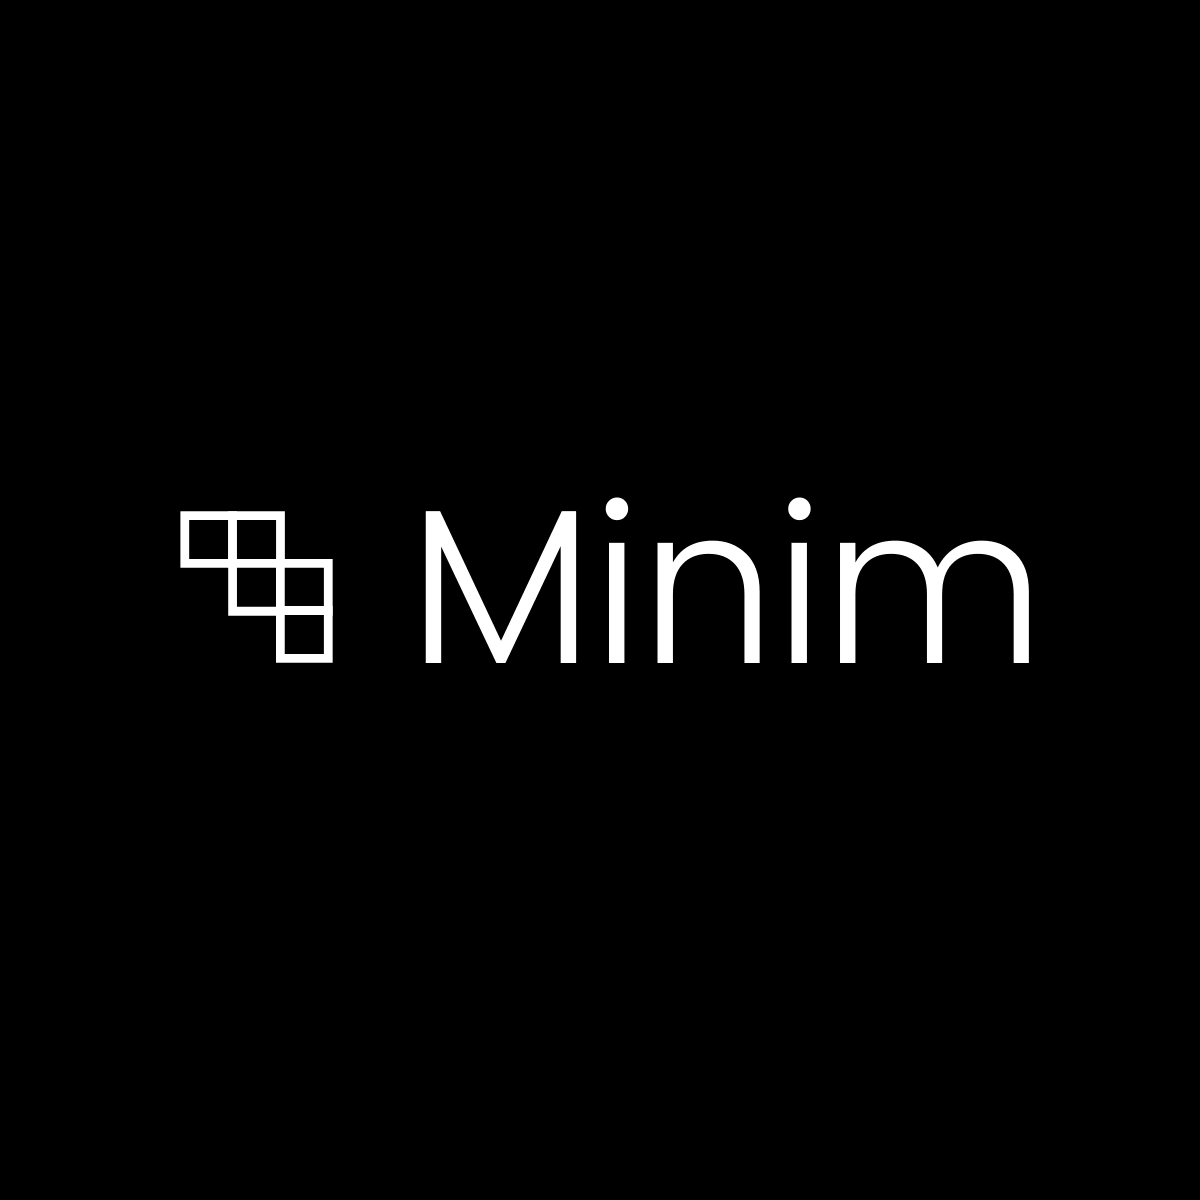
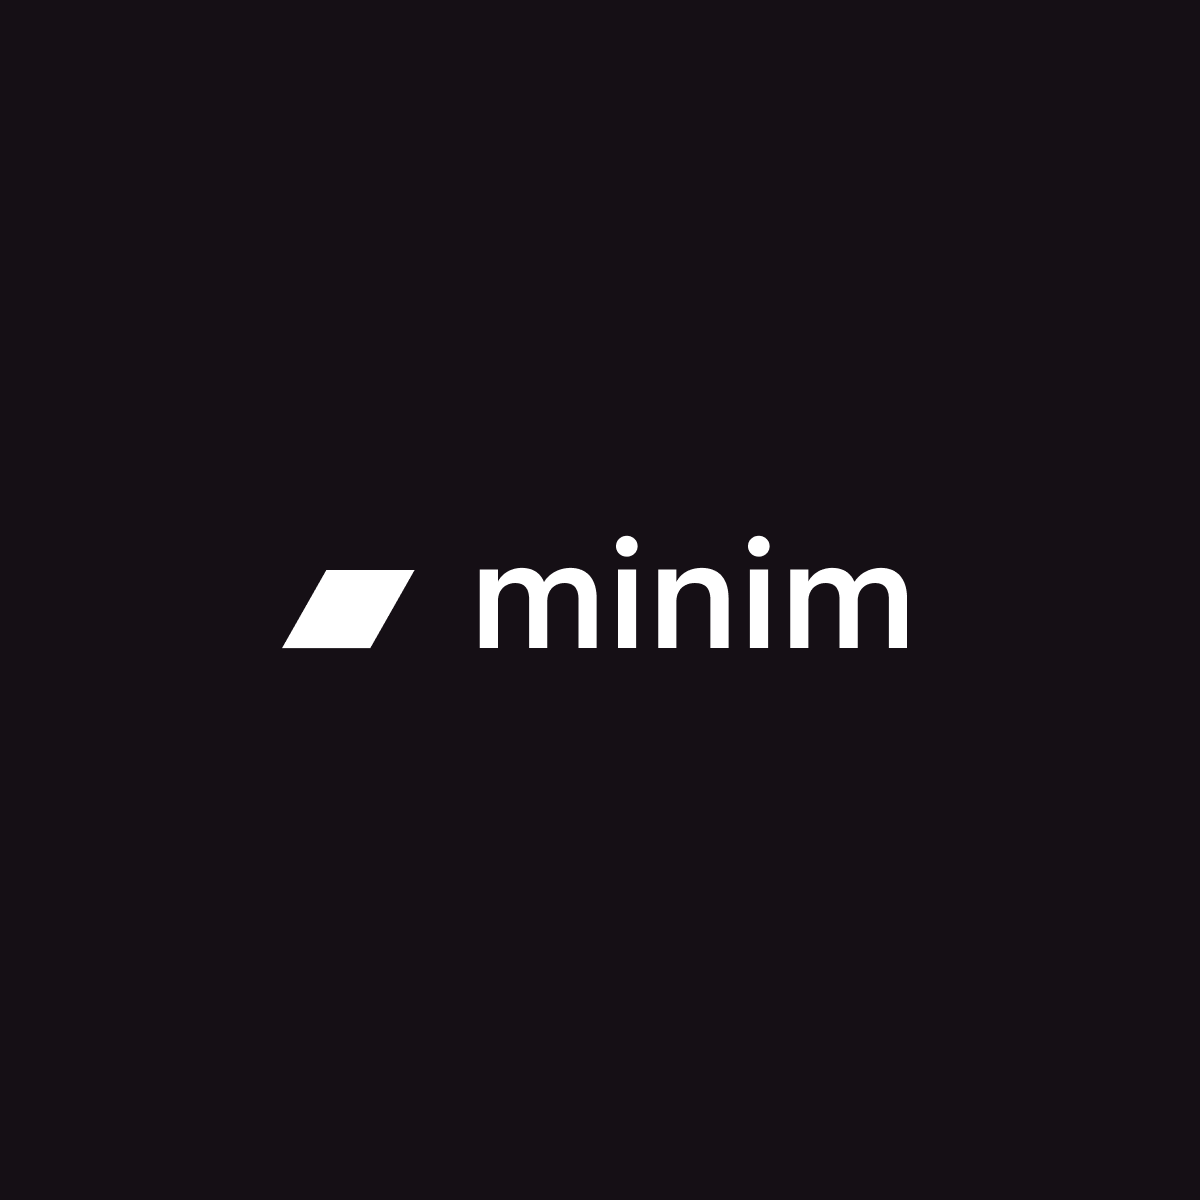
changes

Changed region(s): [[0.1233, 0.4008, 0.8017, 0.555], [0.8325, 0.4625, 0.8633, 0.555], [0.8017, 0.4317, 0.8325, 0.4625]]

diff --git a/style.css b/style.css
@@ -1,52 +1,41 @@
 body {
-	font-family: 'Poppins', sans-serif;
-	background-color: #191919;
-	color: #fff;
-	margin: 0;
-	padding: 0;
-}
-
-a {
-	color: #fff;
-}
-
-a:hover {
-	color: #39feee;
+  background-color: #150f15;
+  color: #fff;
+  font-family: Arial, sans-serif;
+  padding: 0;
+  margin: 0;
 }
 
 .container {
-	width: 80%;
-	height: 100vh;
-	margin: 0 auto;
-}
-
-.container {
-	text-align: center;
-	display: flex;
-	flex-direction: column;
-	justify-content: center;
-	align-items: center;
+  height: 100vh;
+  width: 100vw;
+  padding: 0;
+  margin: 0;
+  display: flex;
+  flex-direction: column;
+  justify-content: center;
+  align-items: center;
 }
 
 .logo {
-	display: flex;
-	justify-content: center;
-	align-items: center;
+}
+
+.logo span {
+  font-size: 75px;
+  max-width: 50%;
 }
 
 .logo img {
-	height: 10vw;
-	width: 10vw;
-	margin-top: -0.35rem;
+  height: 40px;
+  padding-right: 15px;
+  margin: 0;
 }
 
-.logo h1 {
-	font-size: 13vw;
-	margin: 2rem 0;
-	padding-left: 3vw;
-	font-weight: 400;
+a {
+  text-decoration: none;
 }
 
-p {
-	font-size: 1.1rem;
+a img {
+  height: 30px;
+  padding: 15px;
 }

diff --git a/index.html b/index.html
@@ -30,11 +30,22 @@
 <body>
   <div class="container">
     <div class="logo">
-      <img src="logo.png" alt="Minim">
-      <h1>Minim</h1>
+      <img src="img/parallelogram.png" alt="logo">
+      <span>minim</span>
     </div>
-    <p>Coming soon .....</p>
-    <p>In the meantime, learn web development on <a href="https://youtube.com/tryminim">YouTube</a></p>
-  </div>
+    <div>
+    </div>
+    <div class="social">
+      <a href="https://youtube.com/tryminim">
+        <img src="img/yt.png" alt="youtube">
+      </a>
+      <a href="https://twitter.com/tryminim">
+        <img src="img/tw.png" alt="twitter">
+      </a>
+      <a href="https://imstagram.com/tryminim">
+        <img src="img/ig.png" alt="imstagram">
+      </a>
+    </div>
+</div>
 </body>
 </html>
